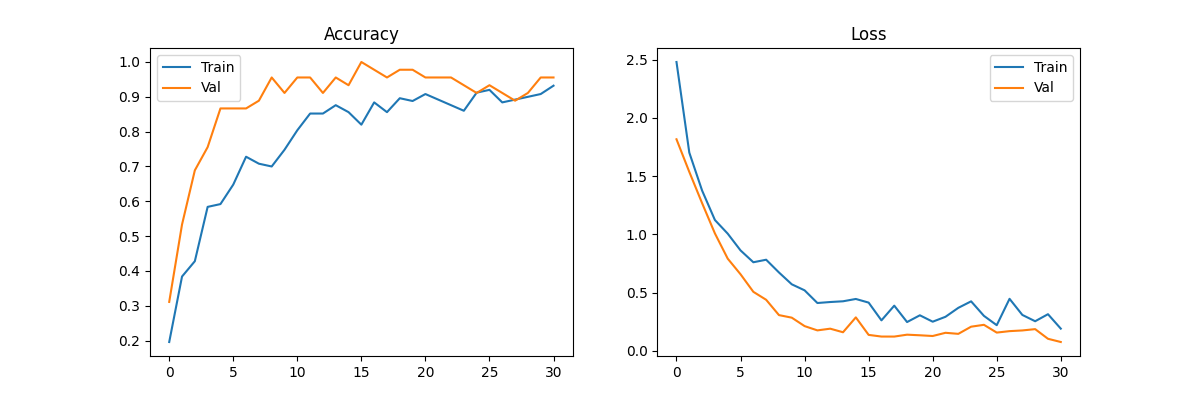
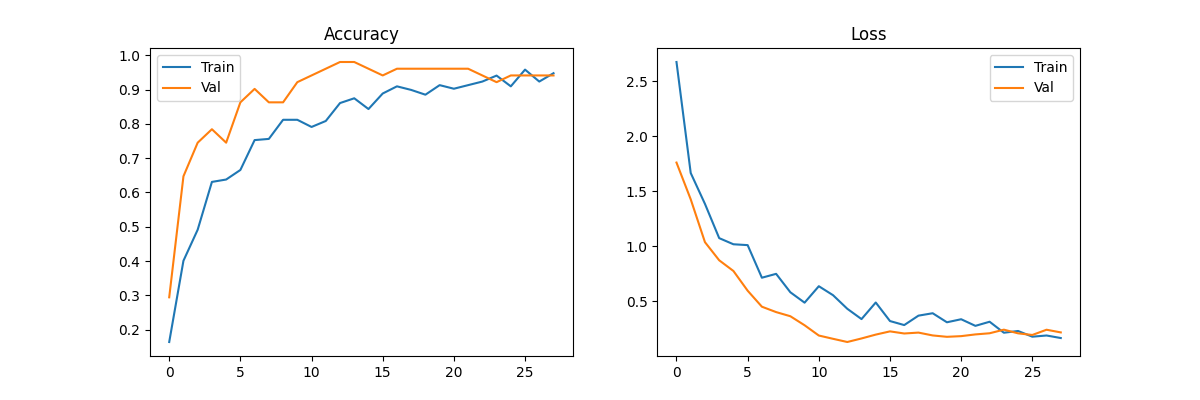
README.md güncellendi; model değiştirildi ve toplam görsel sayısı güncellendi.

diff --git a/README.md b/README.md
@@ -8,10 +8,10 @@ Görsel tabanlı bir **IFF (Identification Friend or Foe)** sistemi. Hava araçl
 
 | | |
 |---|---|
-| **Model** | EfficientNetB0 (Transfer Learning) |
+| **Model** | EfficientNetB3 (Transfer Learning) |
 | **Test Accuracy** | %97.8 |
 | **Sınıf Sayısı** | 7 (6 askeri + 1 sivil) |
-| **Toplam Görsel** | ~295 |
+| **Toplam Görsel** | ~335 |
 | **Preprocessing** | CLAHE (düşük ışık dayanıklılığı) |
 
 ---
@@ -55,15 +55,15 @@ Güven Eşiği (%70)   ← Altındaysa → TANIMLANAMADI
 
 ```
               precision    recall  f1-score
-F-16 (DOST)     1.00      0.88      0.93
-F-35 (DOST)     0.89      1.00      0.94
+F-16 (DOST)     1.00      0.89      0.94
+F-35 (DOST)     1.00      1.00      1.00
 TB2  (DOST)     1.00      1.00      1.00
-MiG-29 (DÜŞMAN) 1.00      1.00      1.00
+MiG-29 (DÜŞMAN) 0.89      1.00      0.94
 Su-57  (DÜŞMAN) 1.00      1.00      1.00
 Heron  (DÜŞMAN) 1.00      1.00      1.00
 Civil           1.00      1.00      1.00
 
-accuracy                           0.978
+accuracy                           0.98
 ```
 
 ---